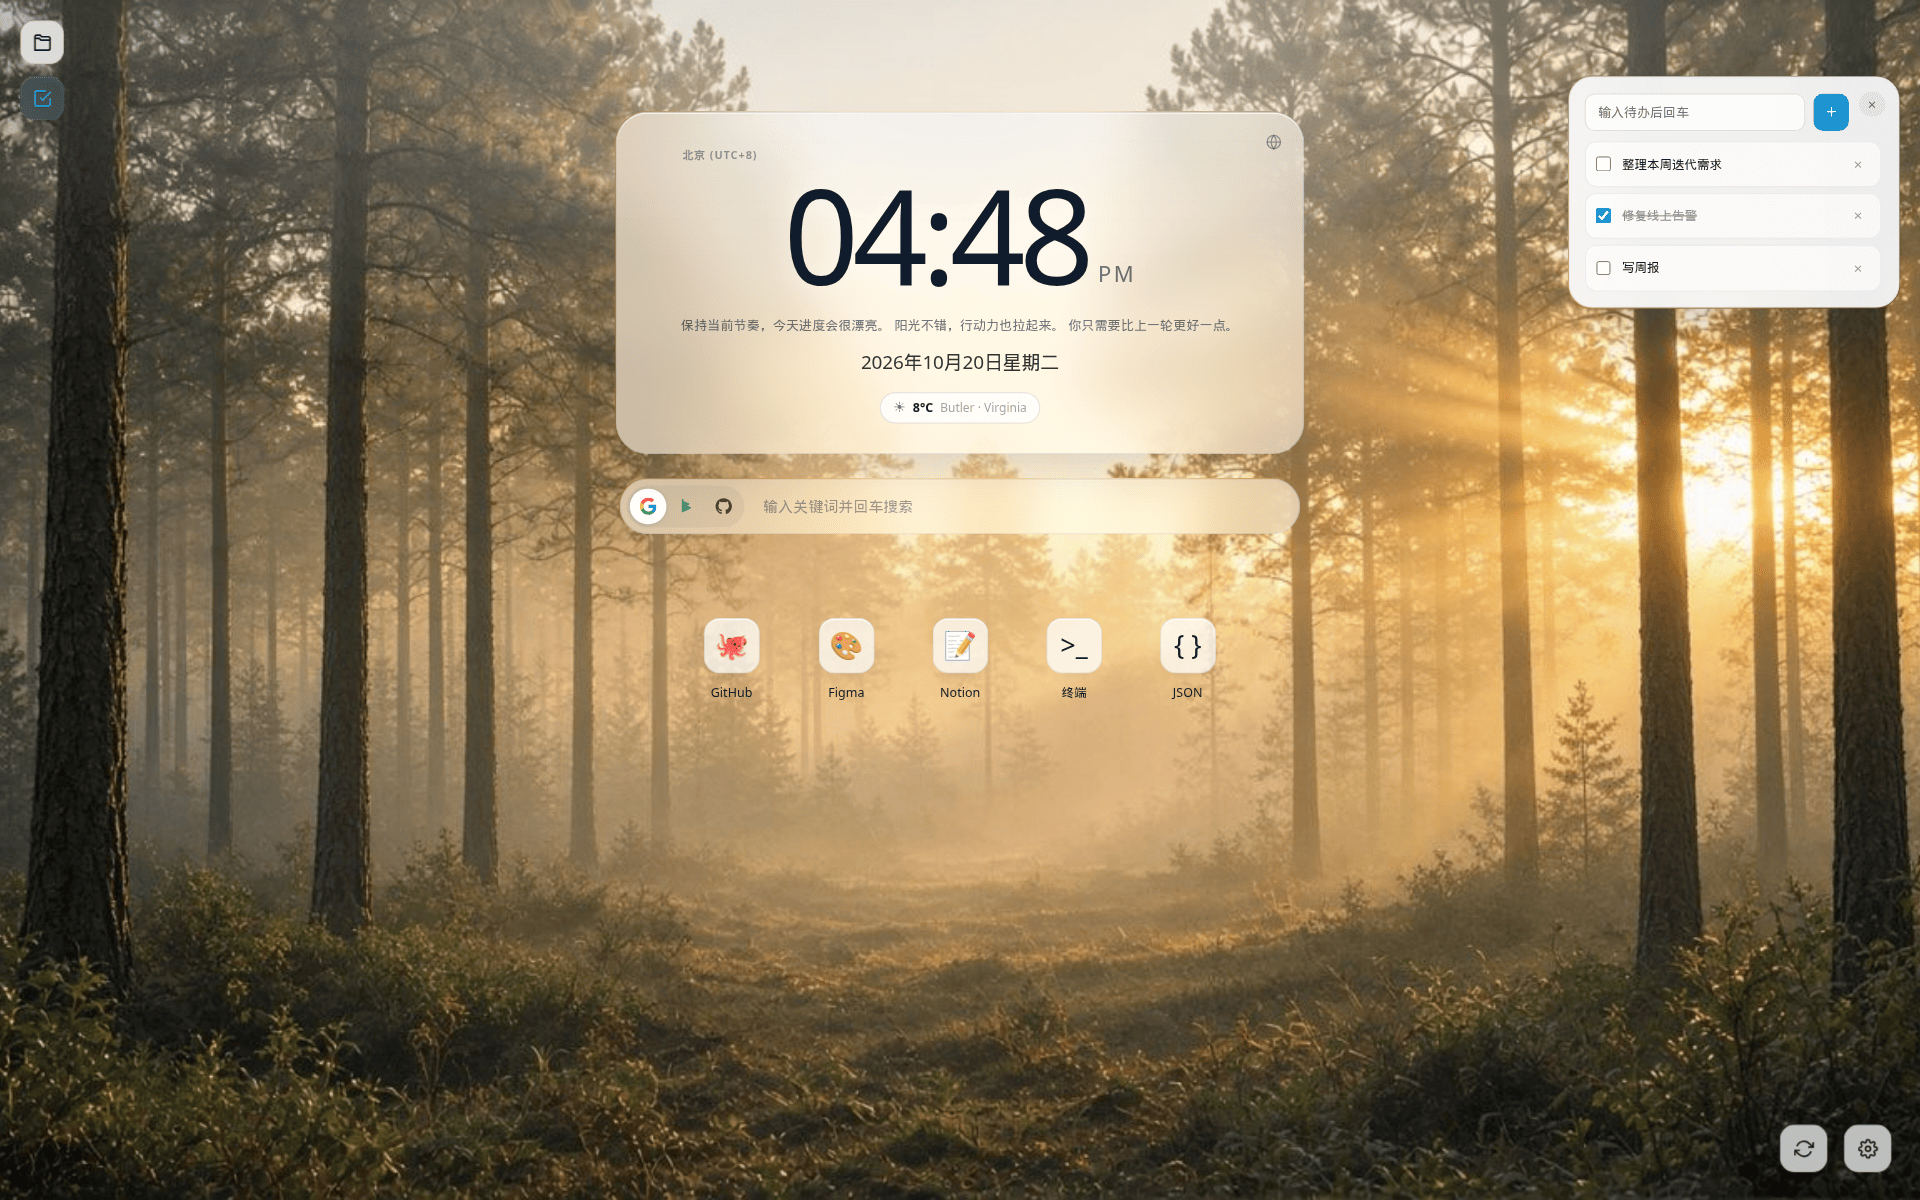
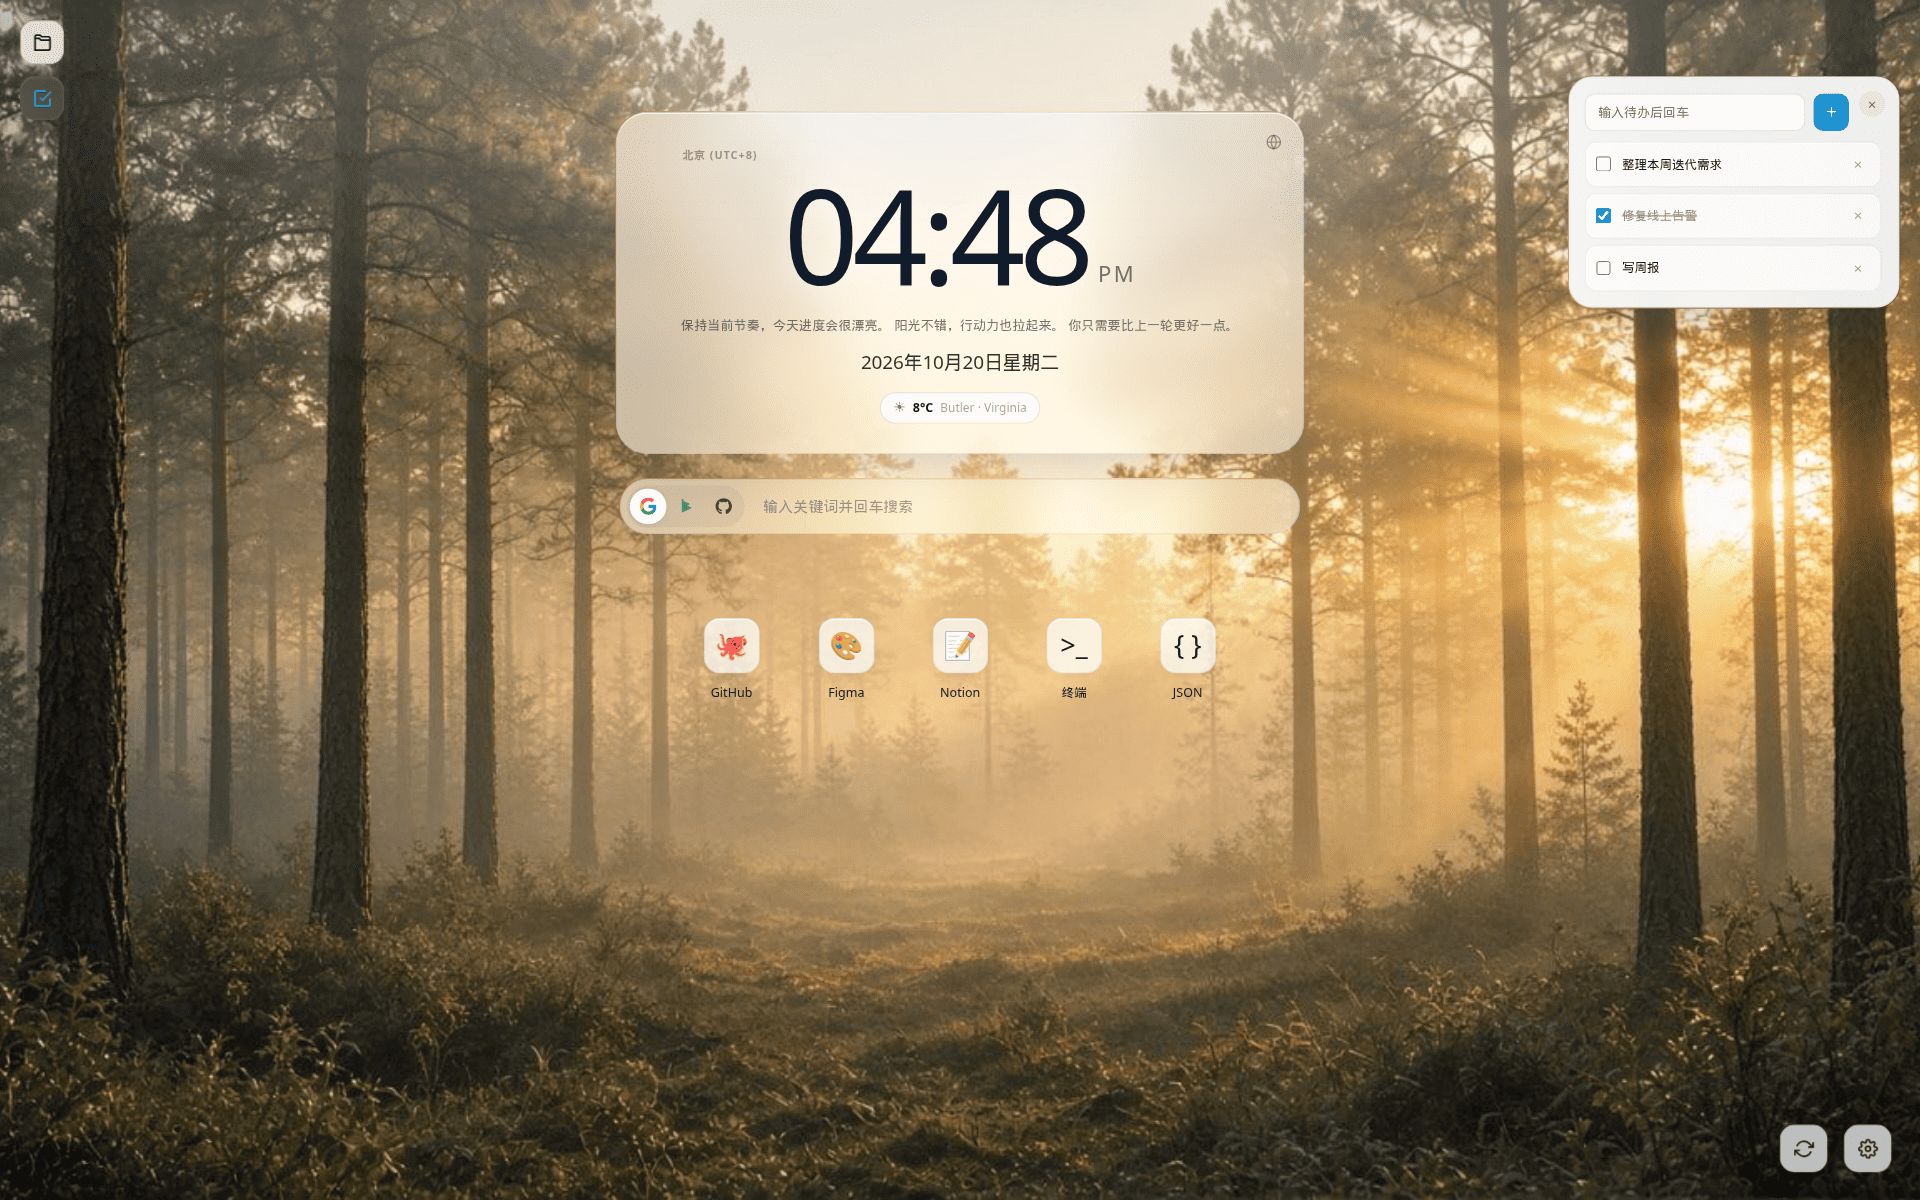
docs: record Grok Imagine provenance and expand background migration tests
NOTICE now states the stills and icon composition were generated with Grok
Imagine (C2PA retained on the JPEGs), the SVG/PNGs are a hand-traced
rasterization, and xAI terms allow commercial distribution under Apache-2.0.
E2E covers the remaining Pexels paths, chrome-extension URLs, Bing fallback,
backup import, and unchanged custom/data URLs.

diff --git a/docs/releases/v1.1.0.md b/docs/releases/v1.1.0.md
@@ -8,7 +8,7 @@ Open-source under Apache License 2.0. No new Chrome permissions. Includes test/C
 
 - The project is licensed under **Apache License 2.0**.
 - Third-party software, photos, trademarks, and the FIX dictionary are described in [`NOTICE`](../../NOTICE).
-- Some items in `NOTICE` are **not** Apache-2.0 (Pexels photos, third-party trademarks, the QuickFIX/J-derived FIX dictionary, and icons pending a later replacement PR).
+- Some items in `NOTICE` are **not** Apache-2.0 (Pexels photos, third-party trademarks, the QuickFIX/J-derived FIX dictionary, and icons pending a later replacement PR). The Pexels stills and those icons were replaced in [PR #6](https://github.com/haoyang1994/OpenTab/pull/6).
 
 ### Added
 
@@ -50,7 +50,7 @@ This release does **not** create a `v1.1.0` git tag or a GitHub Release. The `v1
 
 - 本项目以 **Apache License 2.0** 开源。
 - 第三方软件、照片、商标和 FIX 字典见 [`NOTICE`](../../NOTICE)。
-- `NOTICE` 中部分条目**不在** Apache-2.0 授权范围内（Pexels 照片、第三方商标、源自 QuickFIX/J 的 FIX 字典、以及将另开 PR 替换的图标）。
+- `NOTICE` 中部分条目**不在** Apache-2.0 授权范围内（Pexels 照片、第三方商标、源自 QuickFIX/J 的 FIX 字典、以及将另开 PR 替换的图标）。这些 Pexels 静图和旧图标已在 [PR #6](https://github.com/haoyang1994/OpenTab/pull/6) 替换。
 
 ### 新增
 

diff --git a/CHANGELOG.md b/CHANGELOG.md
@@ -9,7 +9,7 @@ and this project adheres to [Semantic Versioning](https://semver.org/spec/v2.0.0
 
 ### Changed
 
-- Replaced the application icon and three bundled default backgrounds with original OpenTab artwork (Apache-2.0). Saved Pexels preset paths migrate to the matching new images (or fall back to the Bing default) so existing installs do not 404.
+- Replaced the application icon and three bundled default backgrounds with project-owned assets (Apache-2.0; stills and icon composition Created with Grok Imagine; SVG/PNGs hand-traced and rasterized). Saved Pexels preset paths migrate to the matching new images (or fall back to the Bing default) so existing installs do not 404.
 
 ## [1.1.0] - 2026-10-20
 
